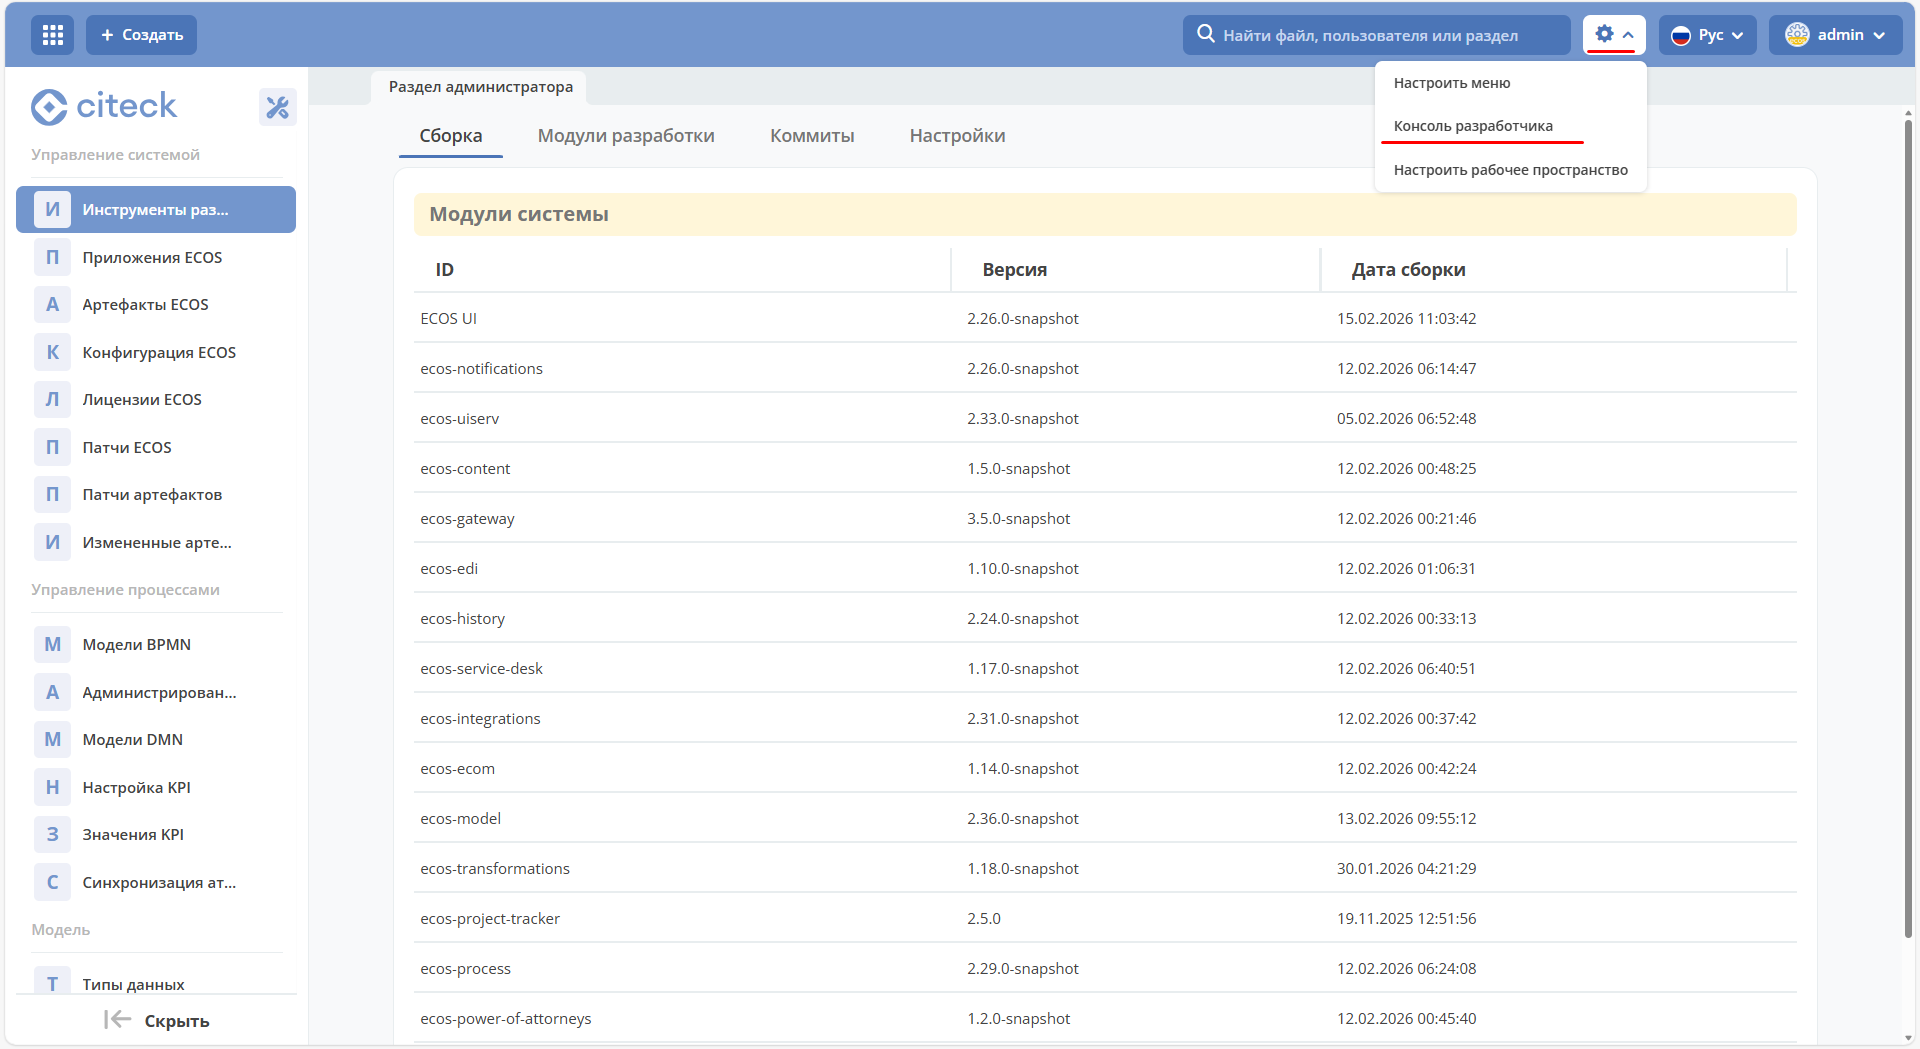
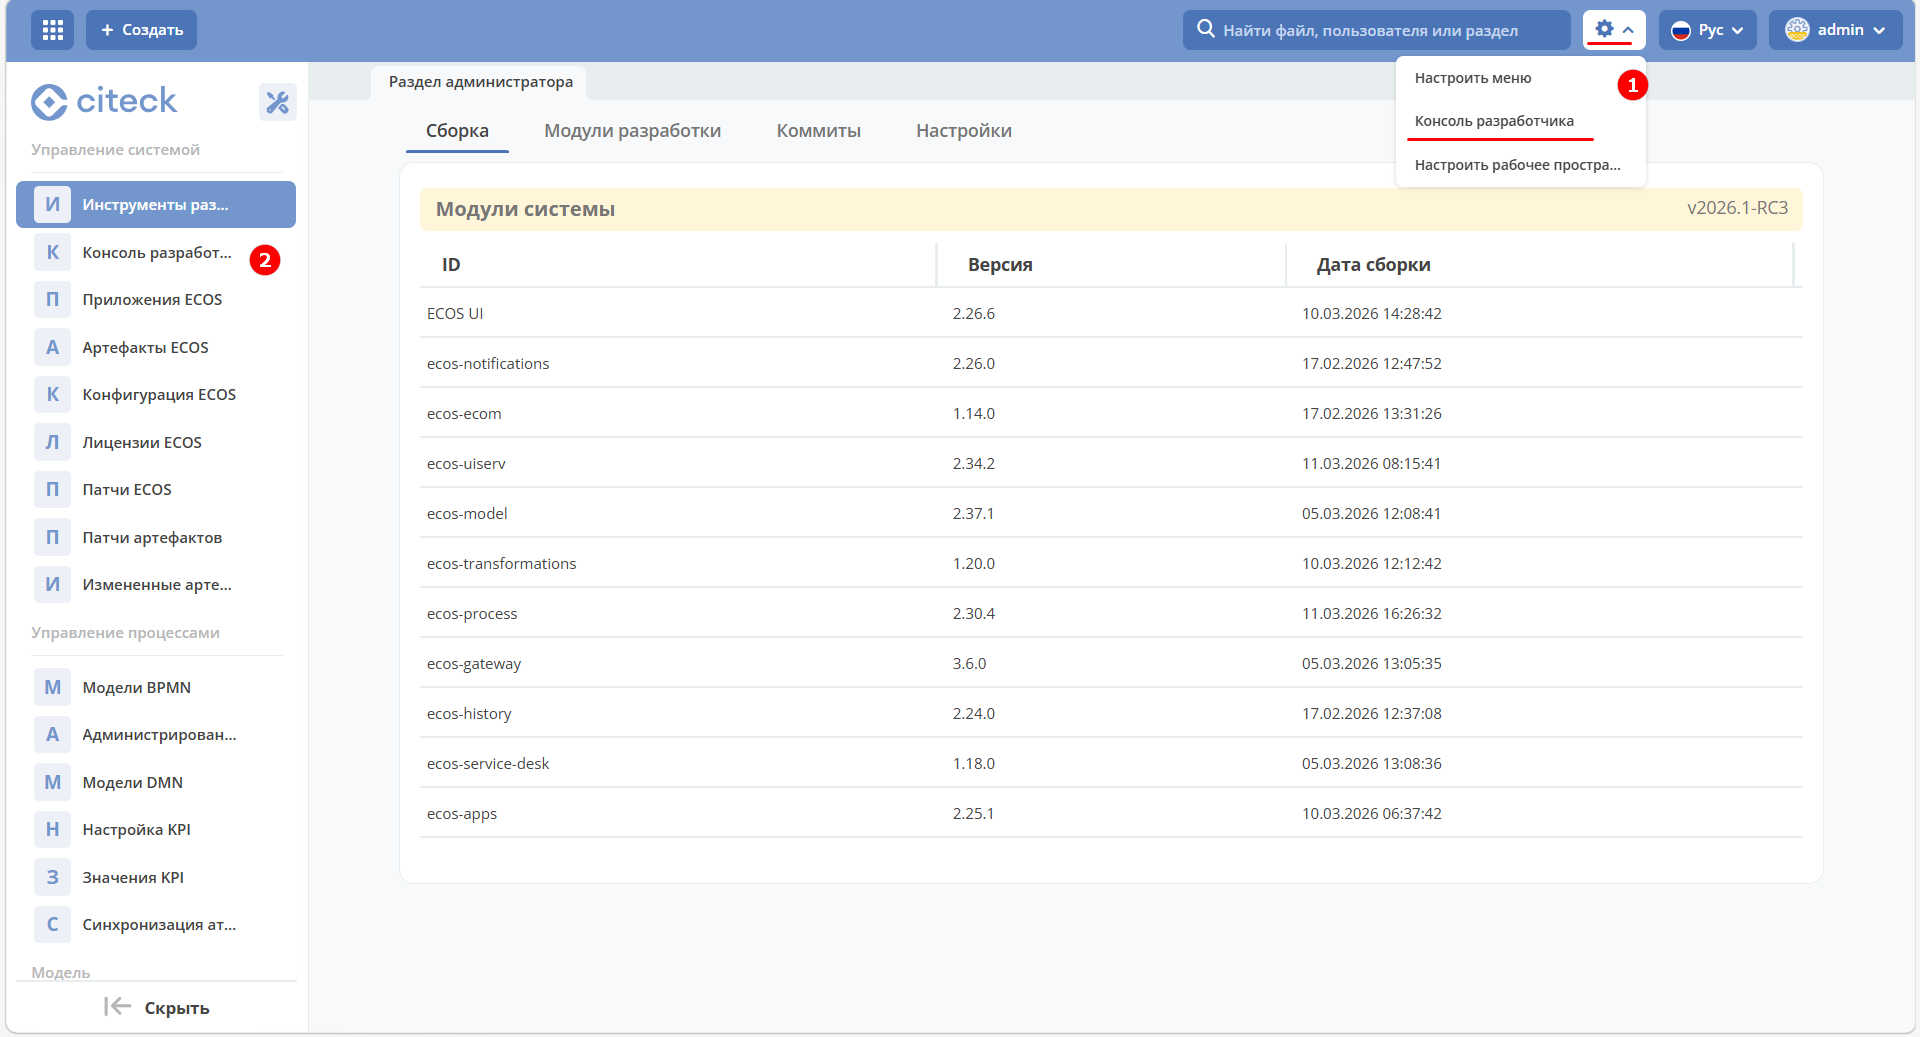
ECOSUI-3691
https://jira.citeck.ru/browse/ECOSUI-3691		Developer console

diff --git a/docs/general/developer_console.rst b/docs/general/developer_console.rst
@@ -5,19 +5,66 @@
 
 Консоль разработчика для администраторов позволяет выполнять **JavaScript код** непосредственно в браузере с отображением результатов.
 
-Вызвать консоль можно из рабочего пространства "Раздел администратора" в верхнем правом углу через шестеренку.
+Вызвать консоль можно из рабочего пространства "Раздел администратора" в верхнем правом углу через шестеренку **(1)** или через соответствующий пункт меню **(2)**:
 
 .. image:: _static/console/01.png
     :width: 800
     :align: center
 
+Общий вид панели консоли разработчика:
 
-В панель инструментов консоли разработчика добавлена кнопка **AI-ассистента**  — позволяет использовать AI для генерации и редактирования кода прямо в консоли.
+.. image:: _static/console/02.png
+    :width: 800
+    :align: center
 
-Панель управления переработана: вместо крупных кнопок с текстом используется компактный тулбар с иконками и тултипами (Run, Undo, Redo, Save, переключение расположения панели).
+- Вверху **панель инструментов** с кнопками управления (**Выполнить, Отменить, Повторить, Очистить, Сохранить код**), выпадающие меню **«Примеры кода»** и **«Сохранённые»**, переключение расположения панели.
+- Основная область — **редактор кода** с нумерацией строк и синтаксической подсветкой.
+- Внизу секция **«Вывод консоли»**.
 
-Добавлено подтверждение удаления сниппета — при нажатии кнопки «Удалить» открывается модальное окно с запросом подтверждения.
+Код можно запустить и по сочетанию клавиш **Shift + Enter**.
 
-Реализовано обновление существующего сниппета: если при сохранении название совпадает с активным сниппетом, код обновляется, а не создаётся дублирующая запись. В модальном окне отображается подсказка «Существующий сниппет будет обновлён».
+Работа со сниппетами
+---------------------
 
-Добавлена возможность запуска кода по hotkey shilft+enter
+**Сниппет** — готовый фрагмент кода, который можно вставить одним кликом, чтобы не писать с нуля.
+
+Сниппет можно сохранить - нажать кнопку **«Сохранить код»**, ввести название сниппета. Сохранённые сниппеты отображаются в выпадающем меню **«Сохранённые»** и доступны для быстрой вставки.
+
+Если при сохранении название совпадает с активным сниппетом - код обновляется. В модальном окне отобразится подсказка **«Существующий сниппет будет обновлён»**.
+
+При удалении сниппета из меню **«Сохранённые»** появится модальное окно с запросом подтверждения удаления. В случае подтверждения сниппет будет удалён.
+
+
+Кнопка **AI-ассистент**
+-------------------------
+
+.. note::
+
+ Доступно только в enterprise версии.
+
+В панель инструментов консоли разработчика добавлена кнопка :ref:`AI-ассистента <AI_assistant>` — позволяет использовать AI для генерации и редактирования кода прямо в консоли.
+
+.. image:: _static/console/03.png
+    :width: 600
+    :align: center
+
+Например, можно попросить AI-ассистента написать код для получения списка всех пользователей:
+
+.. list-table:: 
+      :widths: 20 20
+
+      * - | 
+
+            .. image:: _static/console/04.png
+                 :width: 400   
+
+        - | 
+
+             .. image:: _static/console/05.png
+                  :width: 700   
+
+Если в редакторе уже есть код, то при запросе к AI-ассистенту появятся подсказки:
+
+.. image:: _static/console/06.png
+    :width: 600
+    :align: center

diff --git a/docs/settings_kb/interface/journals/kanban_board.rst b/docs/settings_kb/interface/journals/kanban_board.rst
@@ -88,7 +88,7 @@
 В тулбаре канбан-доски расположен выпадающий список **«Группировка»**. В нём доступны атрибуты, которые в журнале помечены как доступные для группировки.
 
 .. image:: _static/kanban/swimlane_01.png
-   :width: 700
+   :width: 800
    :align: center
 
 При отсутствии выбранной группировки кнопка показывает текст «Группировка». После выбора атрибута в кнопке отображается его название.
@@ -99,7 +99,7 @@
 При выборе атрибута группировки доска переключается в режим swimlanes — карточки разбиваются на горизонтальные дорожки по значениям выбранного атрибута.
 
 .. image:: _static/kanban/swimlane_02.png
-   :width: 700
+   :width: 800
    :align: center
 
 Каждая swimlane-дорожка содержит:
@@ -117,7 +117,7 @@
 Журнал с конфигурациями **«Канбан доски»** (Рабочее пространство «Раздел администратора» → Конфигурация UI):
 
 .. image:: _static/kanban/KB2.png
-   :width: 700
+   :width: 800
    :align: center
 
 Действия
